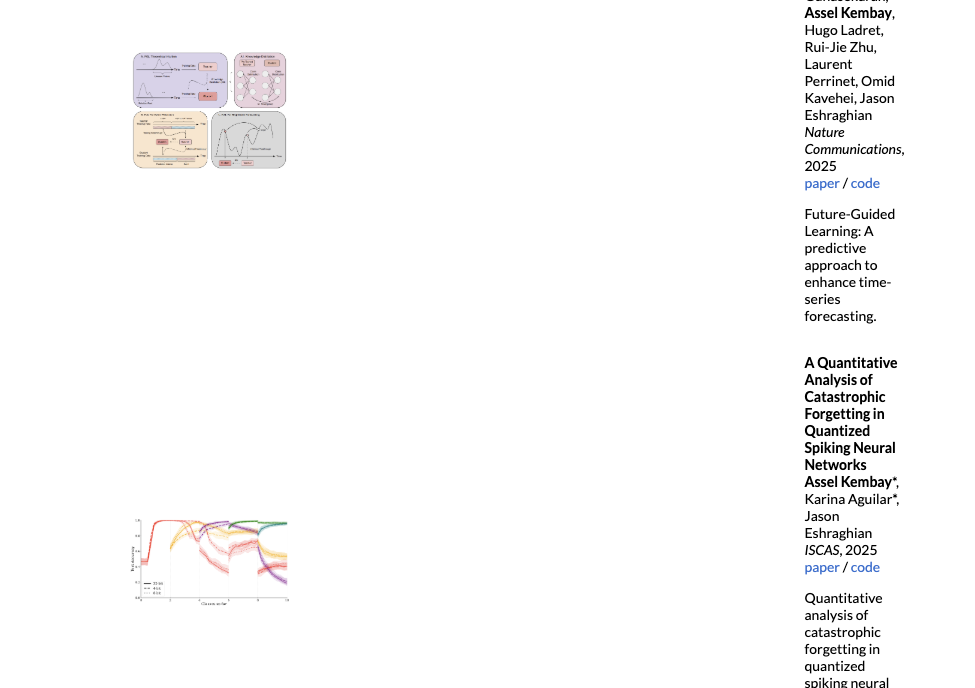
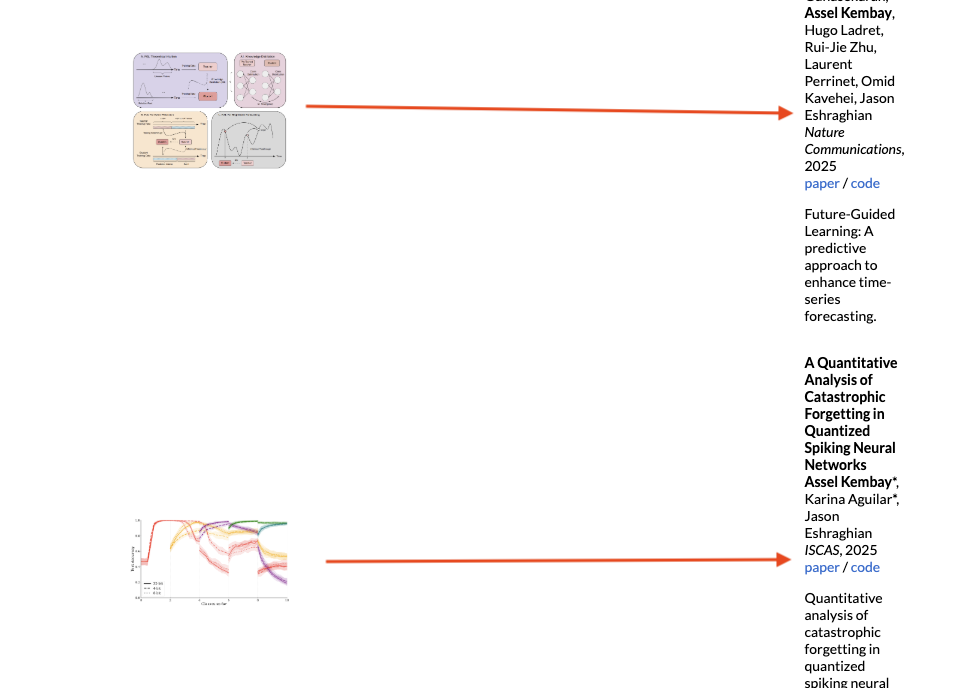
main is updated

Changed region(s): [[0.3077, 0.1526, 0.8308, 0.1831], [0.3385, 0.7936, 0.8308, 0.8241]]

diff --git a/index.html b/index.html
@@ -36,7 +36,7 @@
                 </p>
               </td>
               <td style="padding:2.5%;width:37%;max-width:37%">
-                <a href="images/Assel.jpg"><img style="width:100%;max-width:100%;object-fit: cover; border-radius: 50%;" alt="profile photo" src="images/Assel.jpg" class="hoverZoomLink"></a>
+                <a href="images/Assel.JPG"><img style="width:100%;max-width:100%;object-fit: cover; border-radius: 50%;" alt="profile photo" src="images/Assel.JPG" class="hoverZoomLink"></a>
               </td>
             </tr>
           </tbody></table>
@@ -85,10 +85,10 @@
     </tr>
 
     <tr>
-      <td style="padding:20px;width:20%;vertical-align:middle">
+      <td style="padding:20px;width:20%;vertical-align:top">
         <img src='images/future_guided_learning.png' width="160">
       </td>
-      <td style="padding:20px;width:80%;vertical-align:middle">
+      <td style="padding:20px;width:80%;vertical-align:top">
         <a href="https://www.nature.com/articles/s41467-025-63786-4">
           <span class="papertitle">A predictive approach to enhance time-series forecasting</span>
         </a>
@@ -108,10 +108,10 @@
     </tr>
 
     <tr>
-      <td style="padding:20px;width:20%;vertical-align:middle">
+      <td style="padding:20px;width:20%;vertical-align:top">
         <img src='images/accuracy_comparison_combined.png' width="160">
       </td>
-      <td style="padding:20px;width:80%;vertical-align:middle">
+      <td style="padding:20px;width:80%;vertical-align:top">
         <a href="https://ieeexplore.ieee.org/document/11043413">
           <span class="papertitle">A Quantitative Analysis of Catastrophic Forgetting in Quantized Spiking Neural Networks</span>
         </a>
@@ -138,10 +138,10 @@
     </tr>
 
     <tr>
-      <td style="padding:20px;width:20%;vertical-align:middle">
+      <td style="padding:20px;width:20%;vertical-align:top">
         <img src='images/baylearn_2024.png' width="160">
       </td>
-      <td style="padding:20px;width:80%;vertical-align:middle">
+      <td style="padding:20px;width:80%;vertical-align:top">
         <a href="https://github.com/akembay/Farmer_Spikes">
           <span class="papertitle">Leveraging Spiking Neural Networks for Solar Energy Prediction in Agriculture</span>
         </a>
@@ -170,10 +170,10 @@
     </tr>
 
     <tr>
-      <td style="padding:20px;width:20%;vertical-align:middle">
+      <td style="padding:20px;width:20%;vertical-align:top">
         <img src='images/akembaykd.jpg' width="160">
       </td>
-      <td style="padding:20px;width:80%;vertical-align:middle">
+      <td style="padding:20px;width:80%;vertical-align:top">
         <a href="https://github.com/akembay/SFKD">
           <span class="papertitle">Efficient Knowledge Distillation via Salient Feature Masking</span>
         </a>
@@ -189,10 +189,10 @@
     </tr>
 
     <tr>
-      <td style="padding:20px;width:20%;vertical-align:middle">
+      <td style="padding:20px;width:20%;vertical-align:top">
         <img src='images/latent_cot.jpg' width="160">
       </td>
-      <td style="padding:20px;width:80%;vertical-align:middle">
+      <td style="padding:20px;width:80%;vertical-align:top">
         <a href="https://arxiv.org/abs/2507.06203">
           <span class="papertitle">A Survey on Latent Reasoning</span>
         </a>
@@ -210,10 +210,10 @@
     </tr>
 
     <tr>
-      <td style="padding:20px;width:20%;vertical-align:middle">
+      <td style="padding:20px;width:20%;vertical-align:top">
         <img src='images/STDP_vs_SSDP.jpg' width="160">
       </td>
-      <td style="padding:20px;width:80%;vertical-align:middle">
+      <td style="padding:20px;width:80%;vertical-align:top">
         <a href="https://arxiv.org/abs/2505.14841">
           <span class="papertitle">Learning with Spike Synchrony in Spiking Neural Networks</span>
         </a>
@@ -238,10 +238,10 @@
     </tr>
 
     <tr>
-      <td style="padding:20px;width:20%;vertical-align:middle">
+      <td style="padding:20px;width:20%;vertical-align:top">
         <img src='images/IWCN_main_1.png' width="160">
       </td>
-      <td style="padding:20px;width:80%;vertical-align:middle">
+      <td style="padding:20px;width:80%;vertical-align:top">
         <a href="http://www.iwcn2021.org/download/IWCN_2021_Abstract_book_210521.pdf">
           <span class="papertitle">Simulation Web Platform for the Electro-Chemical Oxygen Reduction Reaction</span>
         </a>
@@ -259,10 +259,10 @@
     </tr>
 
     <tr>
-      <td style="padding:20px;width:20%;vertical-align:middle">
+      <td style="padding:20px;width:20%;vertical-align:top">
         <img src='images/IWCN.jpg' width="160">
       </td>
-      <td style="padding:20px;width:80%;vertical-align:middle">
+      <td style="padding:20px;width:80%;vertical-align:top">
         <a href="https://www.kps.or.kr/upload/upfiles/2021/05/1621556830_77746600_1342512606.pdf">
           <span class="papertitle">Web Platforms for Conventional Simulations of Matters</span>
         </a>
@@ -280,10 +280,10 @@
     </tr>
 
     <tr>
-      <td style="padding:20px;width:20%;vertical-align:middle">
+      <td style="padding:20px;width:20%;vertical-align:top">
         <img src='images/csrc.png' width="160">
       </td>
-      <td style="padding:20px;width:80%;vertical-align:middle">
+      <td style="padding:20px;width:80%;vertical-align:top">
         <a href="https://www.kps.or.kr/upload/upfiles/2021/05/1621556830_77746600_1342512606.pdf">
           <span class="papertitle">A Simulation Web Platform for Analyzing Electronic Structures of Semiconductors</span>
         </a>
